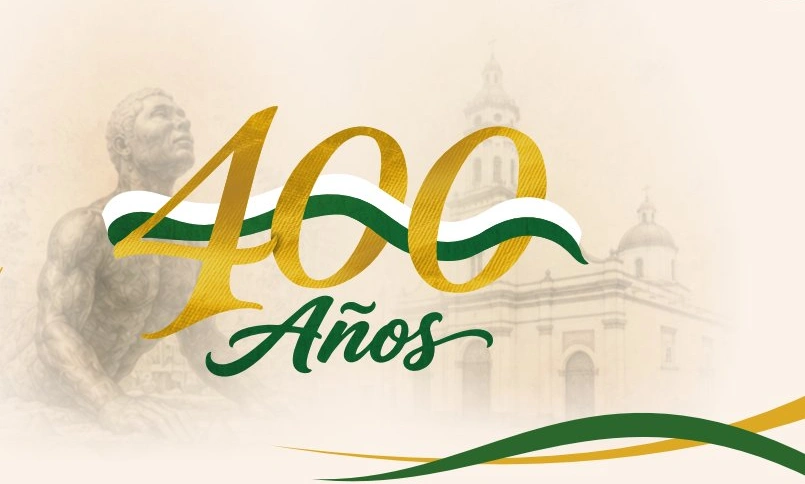
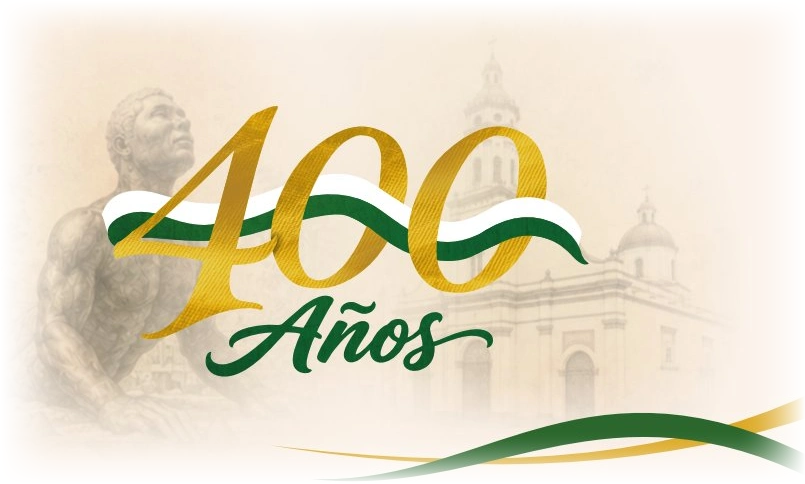
style(home): elevate hero text, enlarge artwork and apply soft feathered radial blend

diff --git a/src/app/pages/home/home.css b/src/app/pages/home/home.css
@@ -28,7 +28,7 @@
   position: relative;
   overflow: hidden;
   background-color: #FAF3E8;
-  padding: clamp(24px, 3vw, 42px) 0 clamp(14px, 1.8vw, 22px);
+  padding: clamp(14px, 2vw, 26px) 0 clamp(10px, 1.4vw, 18px);
   width: 100%;
 }
 
@@ -38,8 +38,8 @@
   padding-left: clamp(24px, 5.5vw, 84px);
   padding-right: clamp(16px, 4vw, 56px);
   display: grid;
-  grid-template-columns: minmax(0, 52%) minmax(0, 48%);
-  gap: clamp(16px, 2.5vw, 40px);
+  grid-template-columns: minmax(0, 48%) minmax(0, 52%);
+  gap: clamp(16px, 2vw, 36px);
   align-items: start;
   box-sizing: border-box;
   min-height: auto;
@@ -54,6 +54,7 @@
   text-align: left;
   width: 100%;
   padding: 0;
+  margin-top: -4px;
 }
 
 .hero-kicker-badge {
@@ -208,13 +209,15 @@
 
 .hero-composite-artwork {
   width: 100%;
-  max-width: 620px;
+  max-width: 740px;
   height: auto;
-  max-height: clamp(340px, 35vw, 460px);
+  max-height: clamp(380px, 42vw, 530px);
   object-fit: contain;
   object-position: top right;
   display: block;
   mix-blend-mode: multiply;
+  -webkit-mask-image: radial-gradient(ellipse 92% 90% at 50% 50%, #000000 65%, rgba(0, 0, 0, 0) 100%);
+  mask-image: radial-gradient(ellipse 92% 90% at 50% 50%, #000000 65%, rgba(0, 0, 0, 0) 100%);
   pointer-events: none;
 }
 
